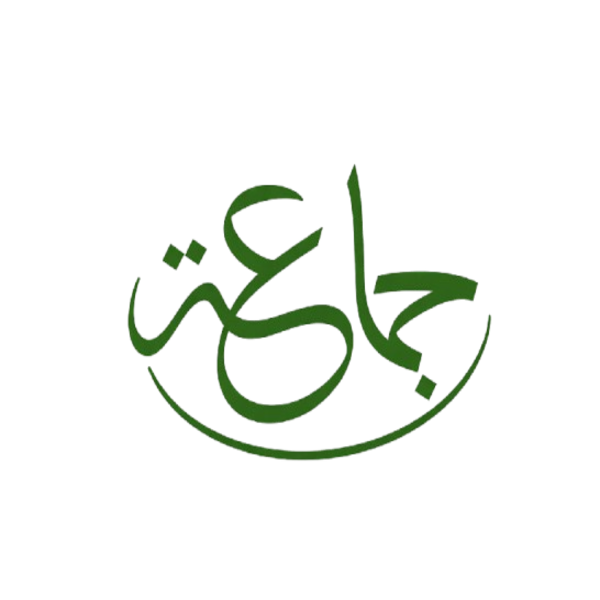
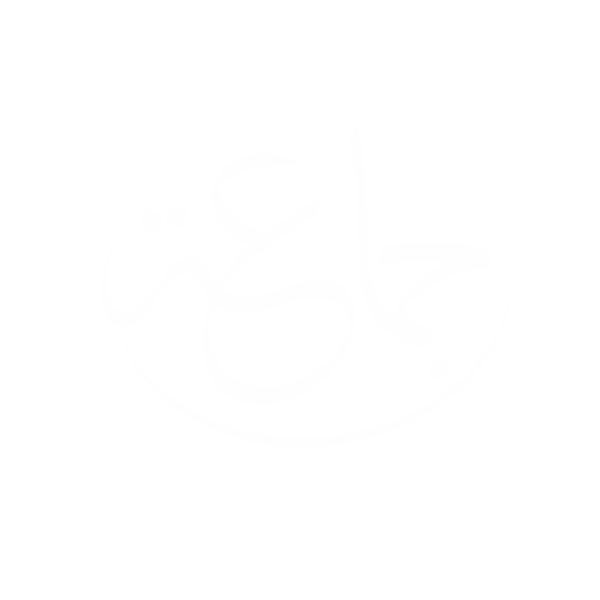
new changes

Changed region(s): [[0.21, 0.27, 0.81, 0.78], [0.81, 0.51, 0.84, 0.57], [0.78, 0.57, 0.81, 0.63]]

diff --git a/app.config.ts b/app.config.ts
@@ -49,7 +49,7 @@ export default () => ({
     splash: {
       image: './assets/JamahProdNoBG.png',
       resizeMode: 'contain',
-      backgroundColor: '#48BB78',
+      backgroundColor: '#245c43',
     },
 
     ios: {
@@ -95,7 +95,7 @@ export default () => ({
       ],
       adaptiveIcon: {
         foregroundImage: './assets/JamahProdAndroidNoBG.png',
-        backgroundColor: '#FFFFFF',
+        backgroundColor: '#245c43',
       },
       icon: './assets/JamahProd.png',
       edgeToEdgeEnabled: true,

diff --git a/src/components/Account/UserProfileSection.tsx b/src/components/Account/UserProfileSection.tsx
@@ -288,9 +288,6 @@ export default function UserProfileSection({
               width: 44,
               height: 44,
               borderRadius: 8,
-              backgroundColor: theme.colors.surfaceMuted,
-              borderWidth: 1,
-              borderColor: theme.colors.border,
               justifyContent: 'center',
               alignItems: 'center',
               marginLeft: 12,
